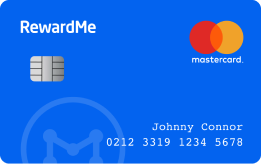
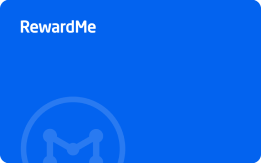
change basic membership card image and apply to membershipScreen

diff --git a/src/screens/MembershipScreen/index.js b/src/screens/MembershipScreen/index.js
@@ -1,5 +1,5 @@
 import React, {useLayoutEffect} from 'react';
-import {View, TouchableOpacity, ScrollView, Image} from 'react-native';
+import {View, TouchableOpacity, ScrollView} from 'react-native';
 import {FormattedDate, FormattedMessage} from 'react-intl';
 import useQueryWithAuth from '@/hooks/useQueryWithAuth';
 import {GET_USER_MEMBERSHIP_API} from '@/api/data';
@@ -25,6 +25,7 @@ import PrivilegesSection from './PrivilegesSection';
 import LinearGradientBackground from '@/components/LinearGradientBackground';
 import ScreenContainer from '@/components/ScreenContainer';
 import MembershipLevelChip from '@/components/MembershipLevelChip';
+import MembershipCard from '@/components/MembershipCard';
 import AppAvator from '@/components/AppAvator';
 
 import AppText from '@/components/AppText2';
@@ -63,10 +64,7 @@ const MembershipScreen = ({navigation}) => {
     <LinearGradientBackground>
       <ScrollView>
         <ScreenContainer hasTopBar headerTransparent>
-          <Image
-            style={imageStyle}
-            source={require('@/assets/basic_membership_card.png')}
-          />
+          <MembershipCard userLevel={userLevel} style={imageStyle} />
           <View style={userRowContainer}>
             <AppAvator
               variant="image"

diff --git a/src/components/MembershipCard/index.js b/src/components/MembershipCard/index.js
@@ -36,7 +36,7 @@ const MembershipCard = ({userLevel, style}) => {
   return (
     <Image
       source={
-        levelCardList.find(levelCard => userLevel === levelCard.level).cardSrc
+        levelCardList.find(levelCard => userLevel === levelCard.level)?.cardSrc
       }
       style={[image, style]}
     />

diff --git a/src/screens/MembershipScreen/style.js b/src/screens/MembershipScreen/style.js
@@ -2,9 +2,6 @@ import {css} from '@emotion/native';
 import {APP_BAR_HEIGHT} from '@/constants/layout';
 
 export const imageStyle = css`
-  margin-left: auto;
-  margin-right: auto;
-  border-radius: 12px;
   margin-top: 24px;
   margin-bottom: 24px;
 `;
